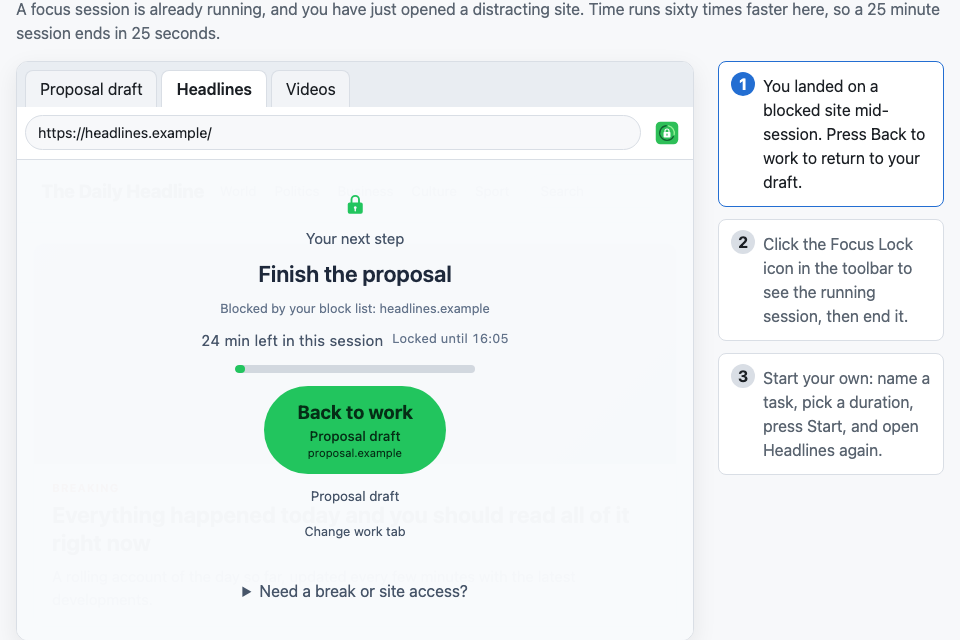
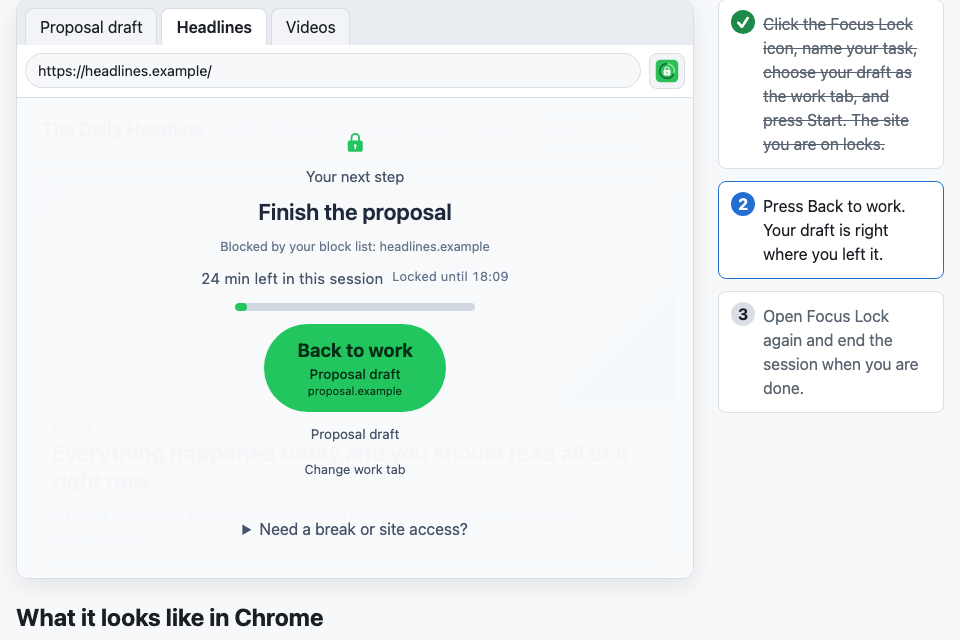
Recapture the README hero from the manual locking flow

diff --git a/tests/e2e/readme-media.spec.ts b/tests/e2e/readme-media.spec.ts
@@ -264,39 +264,40 @@ async function recordSiteDemo(directory: string, frames: string): Promise<void> 
       await preparePage(page, PAGE_SIZE);
       await page.goto(server.url);
 
-      // The demo boots mid-session on the blocked Headlines tab, so the first frame is the
-      // lockscreen itself. Back to work returns to the draft, then the popup ends the session.
+      // The demo opens idle on the Headlines tab. The popup is opened with the intention typed
+      // before the loop, Start locks the page the visitor is on, and Back to work returns to the
+      // draft.
       const draft: FrameLocator = page.frameLocator('iframe[data-tab-id="11"]');
       const headlines: FrameLocator = page.frameLocator('iframe[data-tab-id="12"]');
-      await expect(headlines.locator('focus-lock-overlay')).toBeAttached();
-      await waitForDemoLockTarget(page, 12, 'Back to work');
+      await expect(headlines.locator('focus-lock-overlay')).not.toBeAttached();
+      await page.getByRole('button', { name: 'Open Focus Lock' }).click();
+      const popup: Locator = page.locator('#popup');
+      await popup.getByLabel('Intention').fill(INTENTION);
+      // Headlines is not an eligible work tab, so nothing is preselected: pick the draft.
+      await popup.getByRole('button', { name: 'Change' }).click();
+      await popup.getByLabel('Work tab').selectOption('11');
+      await expect(popup.locator('.work-target')).toHaveText(/Proposal draft/);
+
+      await page.locator('#browser').scrollIntoViewIfNeeded();
 
       await mkdir(frames, { recursive: true });
       const started: number = performance.now();
       for (let frame: number = 0; frame < 80; frame += 1) {
-        if (frame === 8) await capture(page, directory, 'demo-poster.png');
-        if (frame === 24) {
+        if (frame === 16) {
+          await popup.getByRole('button', { name: /^Start/ }).click();
+          await expect(headlines.locator('focus-lock-overlay')).toBeAttached();
+          await expect(page.locator('[data-beat="start"]')).toHaveClass(/guide-done/);
+          // Close the popup panel so the lockscreen underneath is what the frames show.
+          await page.getByRole('button', { name: 'Open Focus Lock' }).click();
+          await expect(page.locator('#popup-panel')).toBeHidden();
+          await waitForDemoLockTarget(page, 12, 'Back to work');
+        }
+        if (frame === 28) await capture(page, directory, 'demo-poster.png');
+        if (frame === 48) {
           await clickDemoLockscreenButton(page, 12, 'Back to work');
           await expect(page.locator('button.tab-active')).toHaveText('Proposal draft');
           await expect(page.locator('[data-beat="back"]')).toHaveClass(/guide-done/);
           await draft.locator('#draft').fill('Section one: why this matters.');
-        }
-        if (frame === 48) {
-          await page.getByRole('button', { name: 'Open Focus Lock' }).click();
-          const popup: Locator = page.locator('#popup');
-          await popup
-            .locator('summary')
-            .filter({ hasText: /^Session actions$/ })
-            .click();
-          await expect(popup.getByRole('button', { name: 'End session' })).toBeVisible();
-        }
-        if (frame === 64) {
-          const popup: Locator = page.locator('#popup');
-          await popup.getByRole('button', { name: 'End session' }).click();
-          const confirm: Locator = popup.getByRole('button', { name: 'End the session' });
-          await expect(confirm).toBeEnabled({ timeout: 10_000 });
-          await confirm.click();
-          await expect(page.locator('[data-beat="session"]')).toHaveClass(/guide-done/);
         }
         await page.screenshot({ path: path.join(frames, `${String(frame).padStart(3, '0')}.png`) });
         await delay(Math.max(0, started + ((frame + 1) * 1_000) / 8 - performance.now()));
@@ -465,7 +466,7 @@ test.describe('README capture', (): void => {
         'Session: 25 minutes, Finish the proposal. A local demonstration document is the actual selected work tab.',
         'Progress: seeded one-hour completed session and one blocked attempt yesterday. The current session is real.',
         "demo-poster.png and demo.gif are recorded from the interactive demo page at https://wolph.github.io/distraction-blocker/, which renders that same popup directly on the page and mounts that same lockscreen inside each fake browser tab's own iframe, none of them real Chrome tabs.",
-        'GIF: 80 screenshots at 8 fps, 10 seconds. The Headlines lockscreen for 3 seconds, the returned work document for 3, the popup showing the running session for 2, and the popup ending it for 2.',
+        'GIF: 80 screenshots at 8 fps, 10 seconds. The popup open on the idle Headlines tab for 2 seconds, Start locking that tab and the lockscreen for 4, the returned work document for 4.',
         `Native Chrome browser chrome is outside every capture. The demo captures do include the fake tab strip and toolbar drawn by the demo page itself, since that is ordinary page content, not real browser chrome. Popup viewport 480x600. Block and demo 960x640. Stats overview 1280x${statsHeight}.`,
         "In blocked-page.png the blocking overlay applies to an already loaded local blocked.example page, and pressing Back to work there activates that page's original Chrome tab. In demo.gif, pressing Back to work switches the fake tab strip on the demo page to the work tab, a state change inside one Chrome tab rather than a switch between Chrome tabs.",
       ],

diff --git a/docs/images/focus-lock/readme/README.md b/docs/images/focus-lock/readme/README.md
@@ -8,7 +8,7 @@ The README uses fresh captures from two sources. `focus-session.png`, `blocked-p
 | `blocked-page.png` | The real blocking overlay on a locally served distracting page. |
 | `progress.png` | The Stats overview with one completed hour yesterday and the live demonstration session. |
 | `demo-poster.png` | A readable still of the lockscreen on the demo page's blocked Headlines tab. |
-| `demo.gif` | A 10-second loop. The blocked tab, Back to work returning to the draft, and the popup ending the running session. |
+| `demo.gif` | A 10-second loop. Start locking the Headlines tab from the popup, the lockscreen, and Back to work returning to the draft. |
 
 The blocked-page and animation frames are 960 by 640 pixels. Stats is 1280 pixels wide and ends after the first complete focus chart. Native Chrome browser chrome is outside every capture, though the animation frames do show the demo page's own drawn tab strip and toolbar, since that is the demo's content and not real browser chrome. Further Stats detail is below the captured viewport. Light theme comes from the extension's own settings for `focus-session.png`, `blocked-page.png` and `progress.png`, and from Playwright's `colorScheme` emulation for `demo-poster.png` and `demo.gif`, which run the demo page without touching the demo engine's own theme setting.
 
@@ -36,7 +36,7 @@ pages:build` runs), which the capture test serves locally to record `demo-poster
 
 The capture test requires `UPDATE_README_MEDIA=1` before replacing tracked media. Without that flag it skips before creating a browser profile, and the inventory check still runs. It rejects `FOCUS_LOCK_E2E_DIST` overrides before launching a browser, so the recorded build is always the repository's `dist/`. Its fixture creates and closes its own extension profile. The store screenshot inventory is separate and unchanged.
 
-The animation samples the interactive demo page eight times per second, not the extension inside real Chrome tabs. The demo boots with a focus session already running and the Headlines tab active, so the real lockscreen is on screen from the first frame, mounted inside that tab's iframe. At three seconds it presses the lockscreen's own Back to work control and verifies that the demo page's fake tab strip switches to the draft, where it types a line. At six seconds it opens the popup, which shows the running session, and at eight seconds it ends the session through the popup's Friction gate, all inside one Chrome tab. `ffmpeg` encodes those frames with a 128-colour palette. Every output must stay below 5 MB.
+The animation samples the interactive demo page eight times per second, not the extension inside real Chrome tabs. The demo opens idle on the Headlines tab with the popup open and the task typed. At two seconds it presses Start, which locks the tab the visitor is on: the real lockscreen mounts inside that tab's iframe. At six seconds it presses the lockscreen's own Back to work control and verifies that the demo page's fake tab strip switches to the draft, where it types a line, all inside one Chrome tab. `ffmpeg` encodes those frames with a 128-colour palette. Every output must stay below 5 MB.
 
 `provenance.json` records the actual capture timestamp, source commit, extension version, tool versions, production build digest, package lock and capture script hashes, and each media file's byte count and SHA-256 hash. Its `reproductionInstructions` repeat the commands above as a recipe for a fresh run. Paths are repository-relative. The recorded history is one seeded completed hour and one blocked attempt yesterday. Session start, current blocking and return to the selected work tab use the running extension for `focus-session.png`, `blocked-page.png` and `progress.png`, and the interactive demo page embedding that same popup and lockscreen for `demo-poster.png` and `demo.gif`.
 
